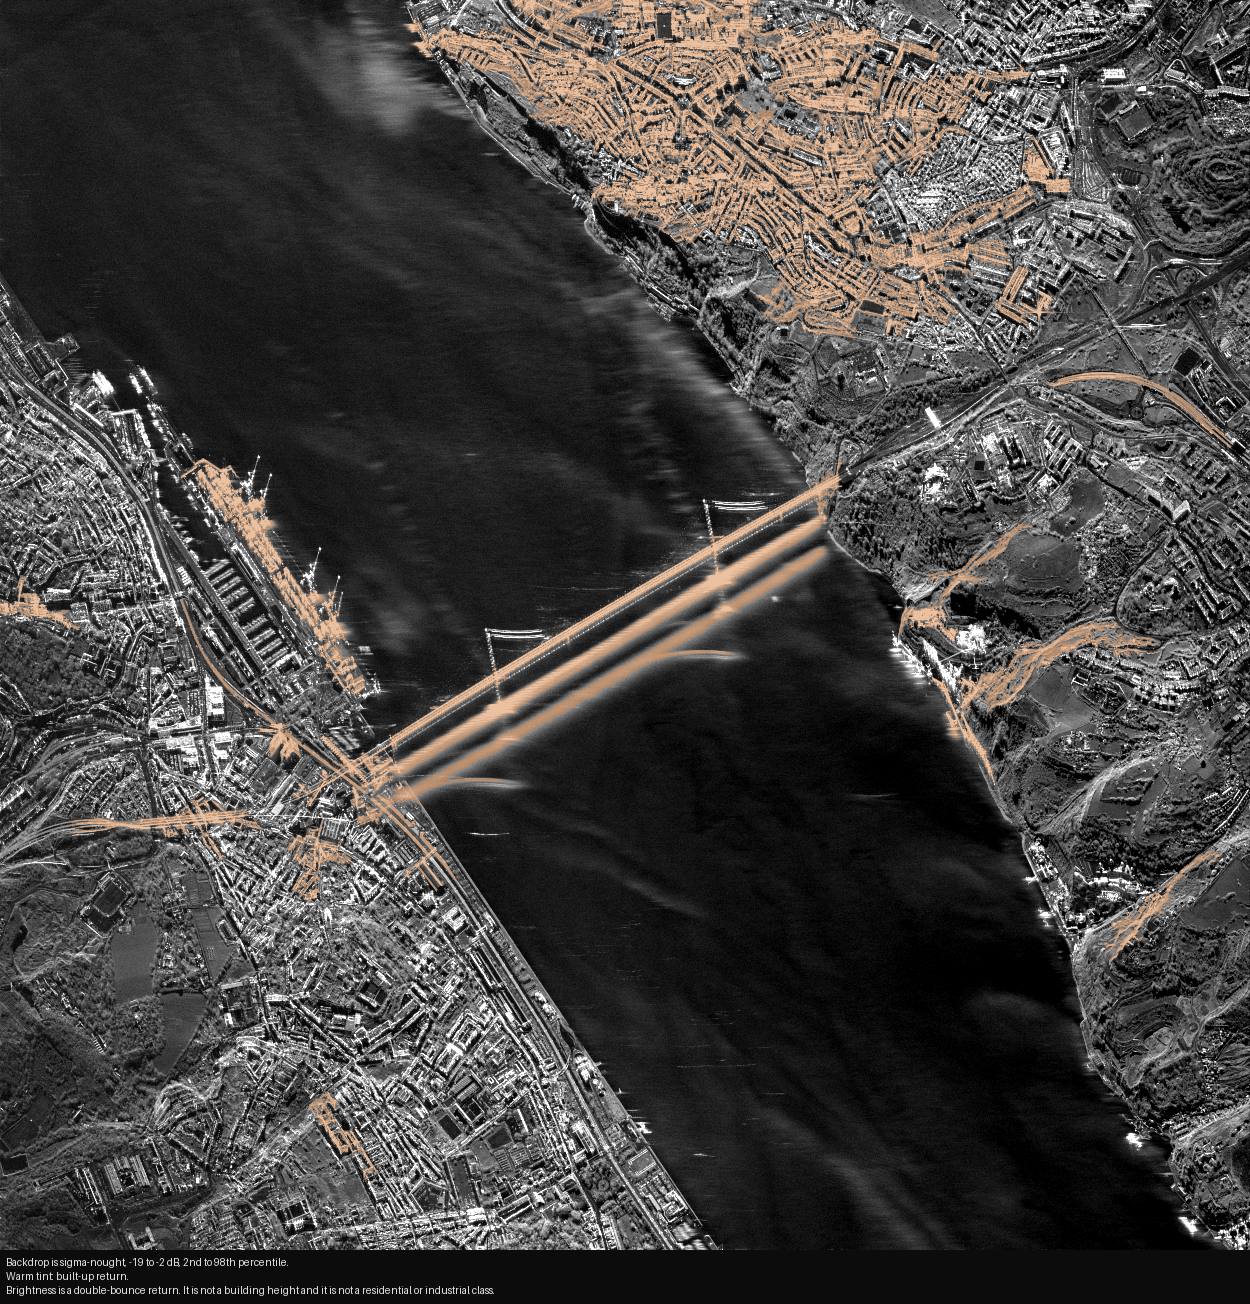
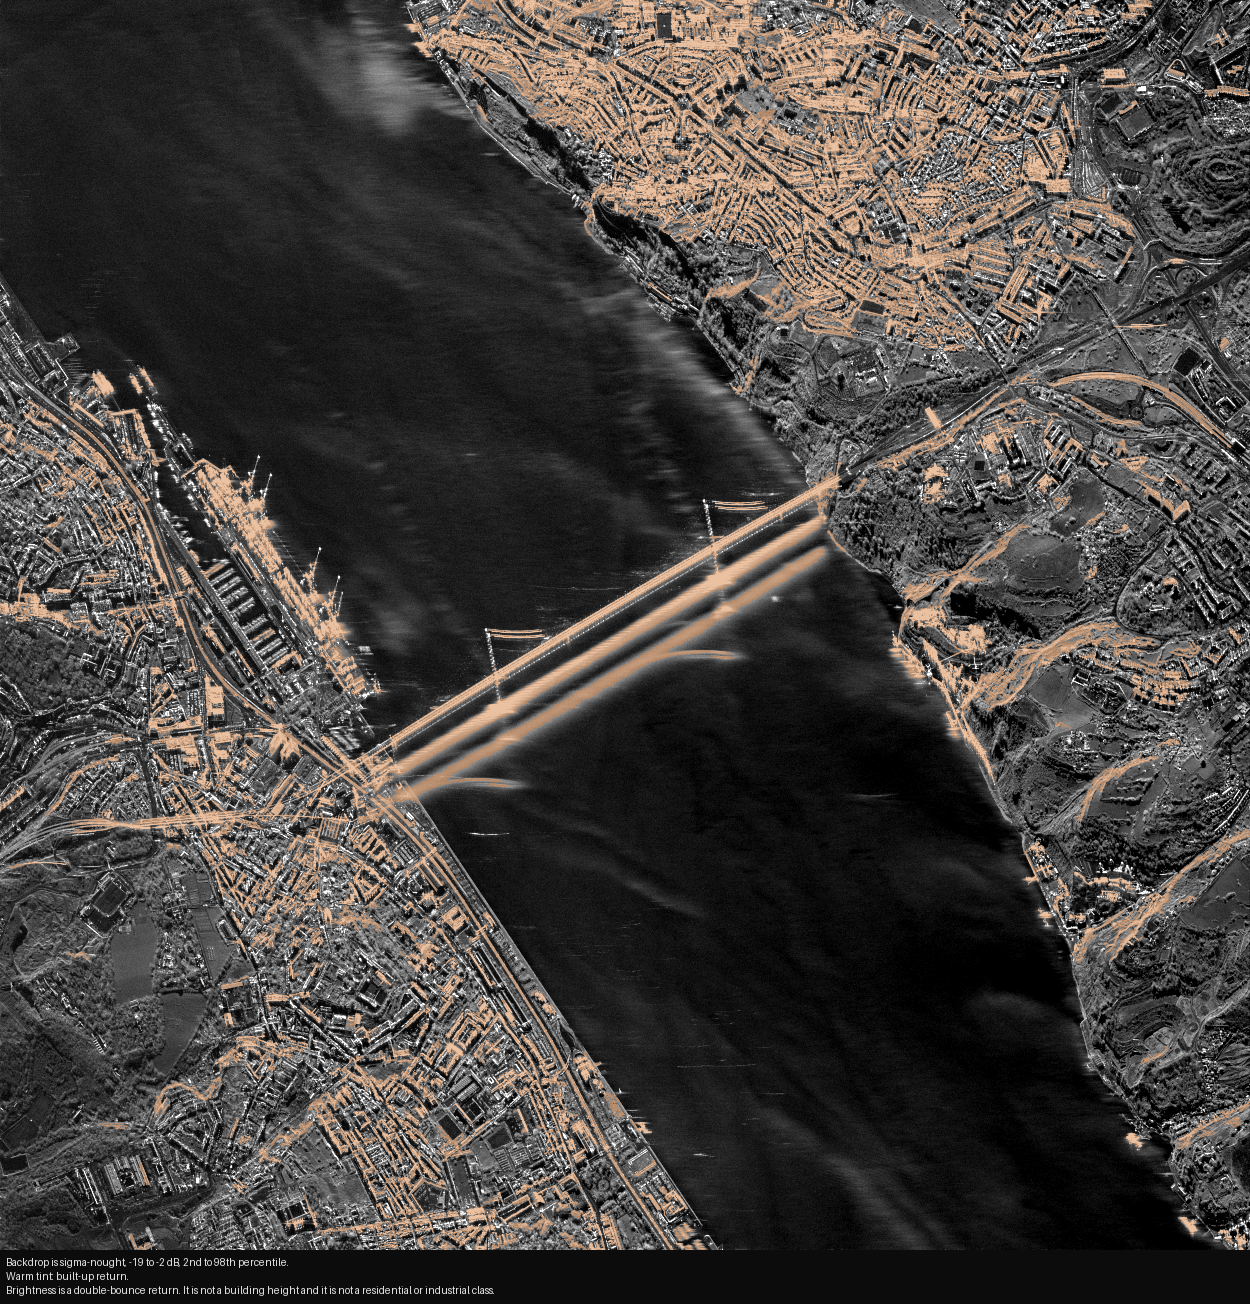
Refresh the Lisbon demo with the current toolkit measurements.
Open water and built-up return are the numbers that moved. The tree still has no radar raster and no demo.json.

diff --git a/demo/lisbon/scenes/ICEYE_EYCKP5_20251024T135309Z_6724574_X52_SLF/analysis/open-water/briefing.md b/demo/lisbon/scenes/ICEYE_EYCKP5_20251024T135309Z_6724574_X52_SLF/analysis/open-water/briefing.md
@@ -2,6 +2,6 @@
 
 Shadow, tarmac, and sand are dark for the same reason. Flooded vegetation and flooded streets get brighter, so this mask marks them dry.
 
-- Water area: 8.25 km²
-- Water fraction: 0.332
+- Water area: 8.22 km²
+- Water fraction: 0.331
 - Median sigma-nought: -17.1 dB

diff --git a/demo/lisbon/scenes/ICEYE_EYCKP5_20251024T135309Z_6724574_X52_SLF/analysis/built-up/briefing.md b/demo/lisbon/scenes/ICEYE_EYCKP5_20251024T135309Z_6724574_X52_SLF/analysis/built-up/briefing.md
@@ -2,5 +2,5 @@
 
 Brightness is a double-bounce return. It is not a building height and it is not a residential or industrial class.
 
-- Built-up fraction of land: 0.092
-- Clusters: 20
+- Built-up fraction of land: 0.153
+- Clusters: 473
